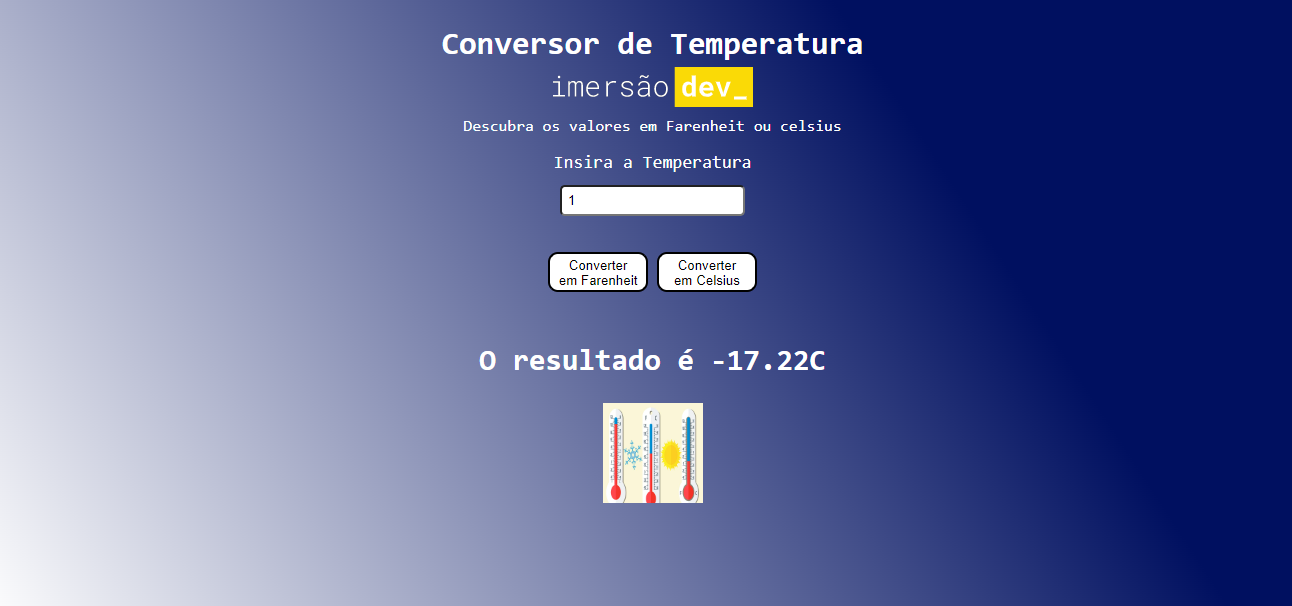
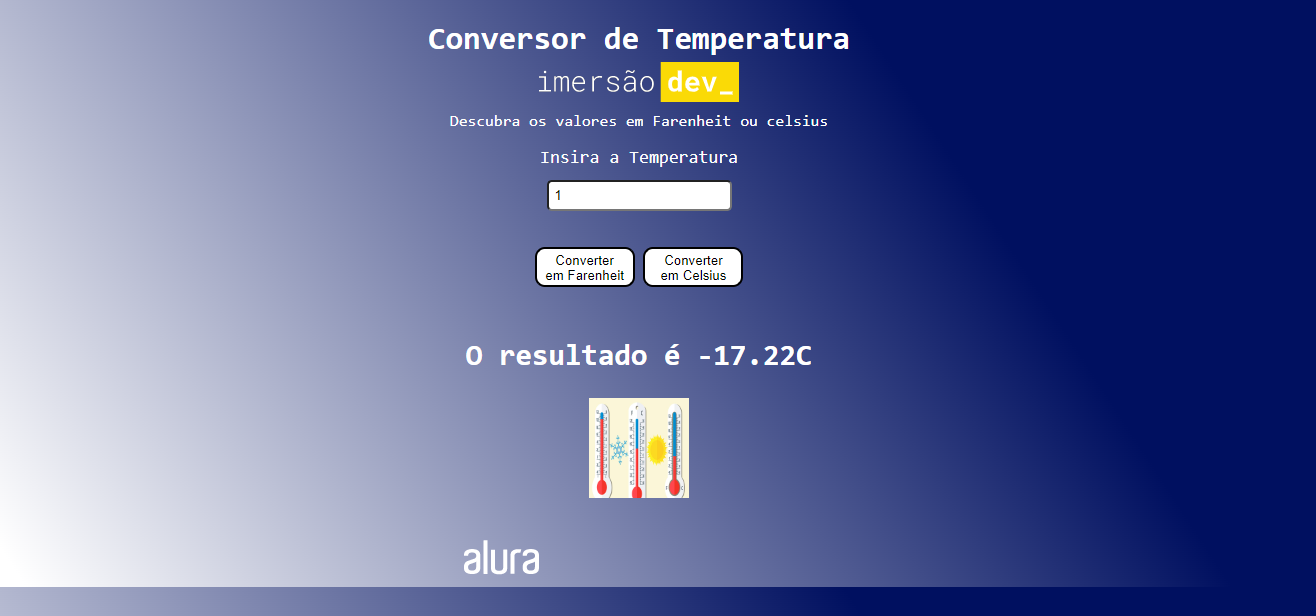
commit

diff --git a/edicao5/conversorTemperatura/style.css b/edicao5/conversorTemperatura/style.css
@@ -7,7 +7,7 @@ body {
 .container {
   text-align: center;
   padding: 20px;
-  height: 100vh;
+  height: 80vh;
 }
 
 .page-title {
